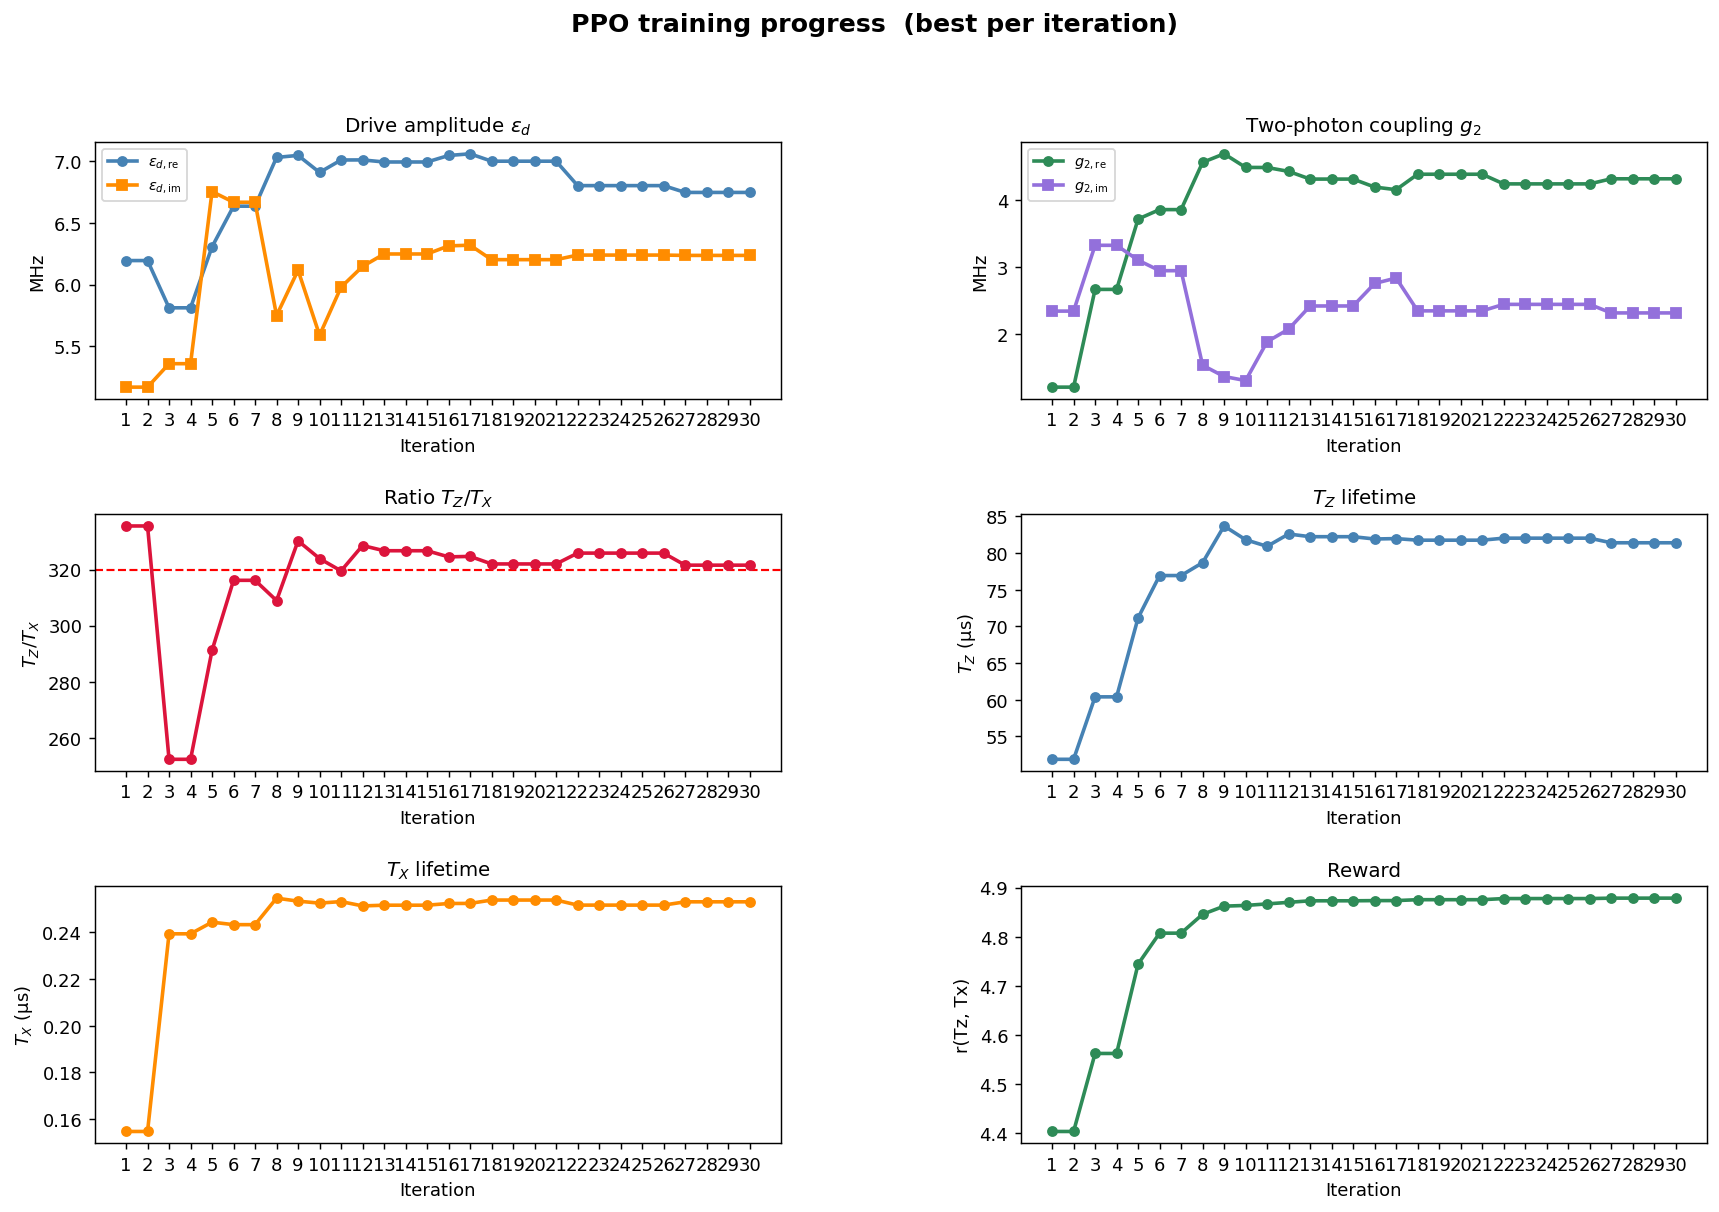
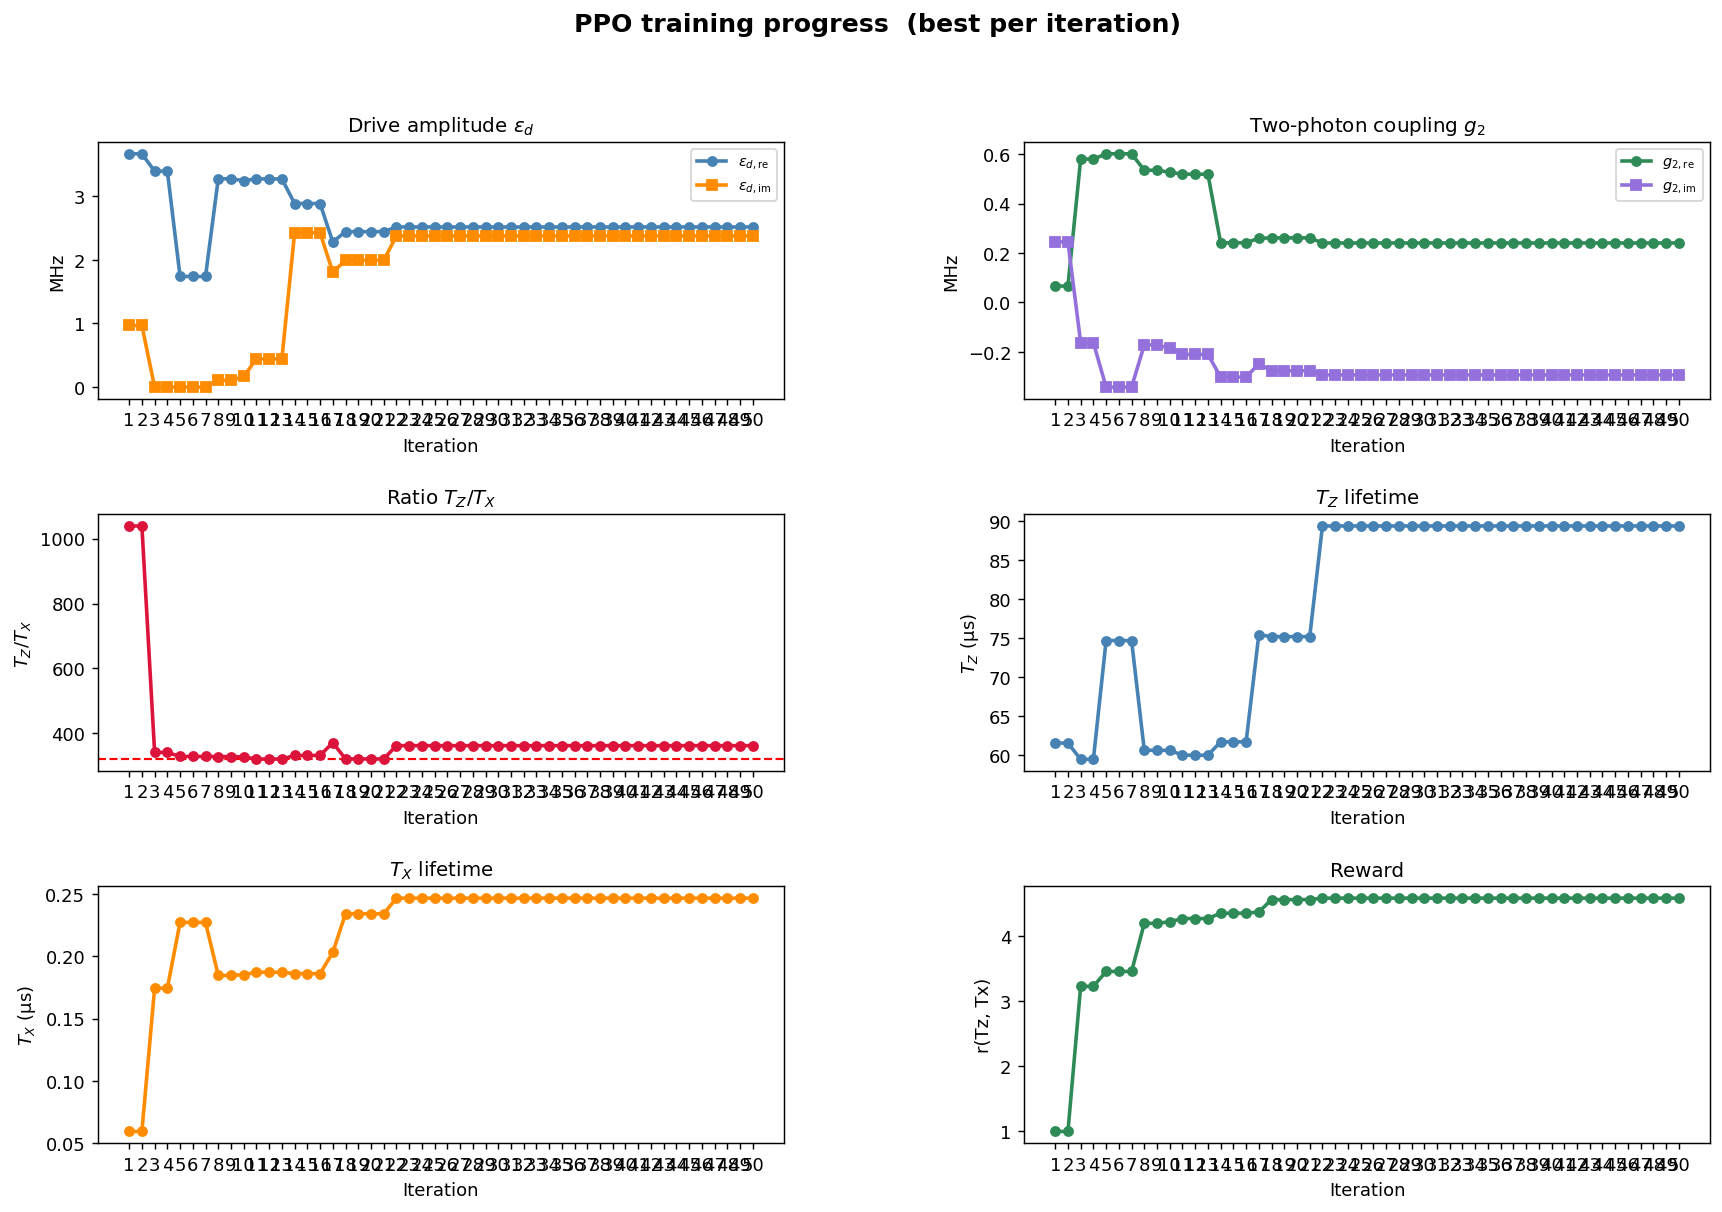
Added Graphs

diff --git a/challenge/Scratch_nontuneable.py b/challenge/Scratch_nontuneable.py
@@ -11,7 +11,7 @@ from scipy.optimize import curve_fit
 from scipy.optimize import least_squares
 
 
-def evolve_state(initial_state, tfinal, eps_d_real: float, eps_d_im: float, g2_re: float, g2_im: float, delta_d: float):
+def evolve_state(initial_state, tfinal, eps_d_real: float, eps_d_im: float, g2_re: float, g2_im: float):
     na = 15 # Hilbert space dimension
     nb = 5
     a = dq.tensor(dq.destroy(na), dq.eye(nb)) # annihilaiton operator
@@ -26,7 +26,7 @@ def evolve_state(initial_state, tfinal, eps_d_real: float, eps_d_im: float, g2_r
     kappa_2 = 4 * jnp.abs(g_2)**2/kappa_b
     alpha_estimate = jnp.sqrt(2/kappa_2 * (eps_2 - kappa_a/4))
 
-    H = jnp.conj(g_2) * a @ a @ b.dag() + g_2 * a.dag() @ a.dag() @ b - eps_d * b.dag() - jnp.conj(eps_d) * b + 0.025*dq.powm(a.dag()@a, 2) + delta_d*a.dag()@a
+    H = jnp.conj(g_2) * a @ a @ b.dag() + g_2 * a.dag() @ a.dag() @ b - eps_d * b.dag() - jnp.conj(eps_d) * b + 0.8*dq.powm(a.dag()@a, 2)
 
     loss_b = jnp.sqrt(kappa_b) * b
     loss_a = jnp.sqrt(kappa_a) * a
@@ -124,12 +124,12 @@ def compute_x_lifetime(ev_res):
 
     return Tx
 
-def compute_vals(eps_d_real: float, eps_d_im: float, g2_re: float, g2_im: float, delta_d: float):
-    ev_res_z = evolve_state("+z",50, eps_d_real, eps_d_im, g2_re, g2_im, delta_d)
+def compute_vals(eps_d_real: float, eps_d_im: float, g2_re: float, g2_im: float):
+    ev_res_z = evolve_state("+z",50, eps_d_real, eps_d_im, g2_re, g2_im)
     Tz = compute_z_lifetime(ev_res_z)
-    ev_res_x = evolve_state("+x",0.25, eps_d_real, eps_d_im, g2_re, g2_im, delta_d)
+    ev_res_x = evolve_state("+x",0.25, eps_d_real, eps_d_im, g2_re, g2_im)
     Tx = compute_x_lifetime(ev_res_x)
     return Tz,Tx
 
-print(compute_vals(4,0,1,0,-1.0))
+print(compute_vals(4,0,1,0))
 

diff --git a/challenge/PPO_optimizer.py b/challenge/PPO_optimizer.py
@@ -38,7 +38,7 @@ matplotlib.use("Agg")          # no display needed — saves to file
 import matplotlib.pyplot as plt
 import matplotlib.gridspec as gridspec
 
-from Scratch import compute_vals
+from Scratch_nontuneable import compute_vals
 
 # ── Constants ──────────────────────────────────────────────────────────────────
 RATIO_TARGET = 320.0
@@ -50,8 +50,8 @@ BETA_END     = 12.0
 PARAM_BOUNDS = np.array([
     [0.0,8.0],   # eps_d_real
     [0.0,8.0],   # eps_d_im
-    [0.0,8.0],   # g2_re
-    [0.0,8.0],   # g2_im
+    [-1.0,1.0],   # g2_re
+    [-1.0,1.0],   # g2_im
 ], dtype=np.float64)
 PARAM_DIM  = PARAM_BOUNDS.shape[0]
 PARAM_SPAN = PARAM_BOUNDS[:, 1] - PARAM_BOUNDS[:, 0]
@@ -473,7 +473,7 @@ class PPO:
     def train(
         self,
         env:           QuantumEnv,
-        n_iterations:  int = 30,
+        n_iterations:  int = 50,
         rollout_steps: int = 32,
         n_verify:      int = 3,    # real sims per main-phase iter (targeted)
         plot_path:     str = "ppo_progress.png",

diff --git a/challenge/graphkerr.py b/challenge/graphkerr.py
@@ -1,0 +1,21 @@
+from Scratch import compute_vals
+import matplotlib.pyplot as plt
+import numpy as np
+
+k_deltas = [0.0, 0.05, 0.1,0.15, 0.175, 0.2, 0.3, 0.4, 0.5, 0.6, 0.7, 0.8, 0.9, 1.0]
+Tz = [59.4658, 58.7897, 57.1178,55.4080, 54.1970,52.8338, 45.3459, 22.2865, 57.7398, 75.5854, 72.9526, 89.3430, 77.0109, 67.7573]
+Tx = [0.177867, 0.176443, 0.171746,0.165209, 0.163844,0.159623, 0.141018, 0.109825, 0.164784, 0.233201, 0.231987, 0.246722,  0.245323, 0.206027]
+
+plt.scatter(k_deltas,Tz)
+plt.title(r"$\langle Z \rangle$ Lifetime vs. Kerr Nonlinearity Intensity")
+plt.ylabel(r"$T_z$")
+plt.axvline(0.4,ls=":",color = "red")
+plt.xlabel(r"$\delta$")
+plt.show()
+
+plt.scatter(k_deltas,Tx)
+plt.title(r"$\langle X \rangle$ Lifetime vs. Kerr Nonlinearity Intensity")
+plt.ylabel(r"$T_x$")
+plt.axvline(0.4,ls=":",color = "red")
+plt.xlabel(r"$\delta$")
+plt.show()

diff --git a/challenge/graph_rot.py b/challenge/graph_rot.py
@@ -1,0 +1,18 @@
+from Scratch import compute_vals
+import matplotlib.pyplot as plt
+import numpy as np
+import scipy.stats as sp
+
+deltas = [0.5,0.75,1.0,1.25,1.5]
+dds = [-0.5528,-0.7478,-1.0133,-1.2383,-1.46]
+res = sp.linregress(np.asarray(deltas),np.asarray(dds))
+print(res)
+xs = np.arange(0.5,1.505,0.05)
+
+plt.ylabel(r"$\Delta_d$")
+plt.scatter(deltas,dds)
+plt.plot(xs,res[0]*xs+res[1],ls = ":", c="red")
+plt.text(1.3,-0.6, r"$r = ${pr}".format(pr = np.round(res[2],4)), fontsize=12)
+plt.xlabel(r"$\Delta$")
+plt.title("Counteracting Coefficient vs. Detuning Intensity")
+plt.show()

diff --git a/challenge/PPO_optimizer_dontgetcooked.py b/challenge/PPO_optimizer_dontgetcooked.py
@@ -50,8 +50,8 @@ BETA_END     = 12.0
 PARAM_BOUNDS = np.array([
     [0.0,8.0],   # eps_d_real
     [0.0,8.0],   # eps_d_im
-    [0.0,8.0],   # g2_re
-    [0.0,8.0],   # g2_im
+    [-1.0,1.0],   # g2_re
+    [-1.0,1.0],   # g2_im
     [-2.0,0.0]    # delta
 ], dtype=np.float64)
 PARAM_DIM  = PARAM_BOUNDS.shape[0]
